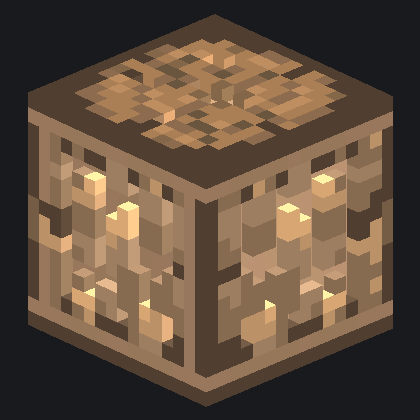
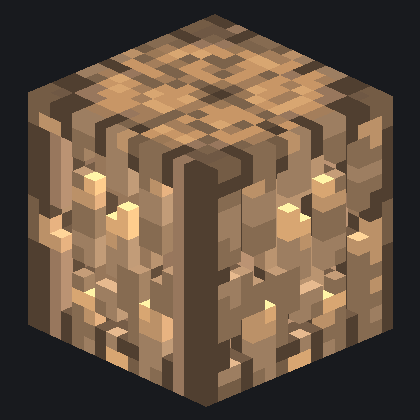
Carved oak bark in its real colours, grooves without the frame
John: keep the sub-voxel bark, "add some texture back. And maybe make the
grooves better". Three causes of the fake look, each fixed:
1. The tracer read a carved model's per-voxel colours only on the
   plant/pane path; the main hit path gave a carved solid one colour per
   cell (the flat tan). Same lookup, same flag, now on the main path too;
   log_oak_baked is flagged.
2. The bake floor kept a fixed 3-texel rim on every face, so the grooves
   lived in a 10x10 window: the framed glyph. The proof only needs the rim
   as wide as the deepest carve (OWN_SHELL_MODELS, opt-in): 1-2 texels.
3. The carved end grain cut the side faces' top rows (refilled dark), and
   its dark ring won the shared edge voxels: dark bands, then dark lines,
   at every seam. Logs carve only their sides (carve_faces) and the sides
   are written last.
Default bake: darkest furrows 2/16, grain 1/16 (CLAUDE_BARK=d2); old and d1
kept for the comparison. claude_oak_model stays 0 until John picks.

diff --git a/util/claude_models.py b/util/claude_models.py
@@ -214,7 +214,8 @@ def _delight(img, carved, delight=1.0, target=None):
 
 
 def bake_from_tiles(name, tiles, maxdepth=3, emissive_faces=(),
-                    emit_level=13, delight=1.0, albedo=None):
+                    emit_level=13, delight=1.0, albedo=None,
+                    grain_depth=1, carve_faces=None):
     """tiles: {face: png path}. Returns (name, palette, voxels) in the
     same shape the authored models use. Palette grows per unique
     (rgb, emit) — texel-true colors, no quantization.
@@ -254,7 +255,14 @@ def bake_from_tiles(name, tiles, maxdepth=3, emissive_faces=(),
             faces.setdefault("front", img)
         else:
             faces[face] = img
-    for face, img in faces.items():
+    # an edge voxel belongs to two faces and holds one colour: the last
+    # face written wins. With carve_faces, the carving faces are written
+    # last (a log's side wins its top and bottom edge from the end grain's
+    # dark ring, which drew a dark line at every seam, 2026-10-09).
+    order = list(faces.items())
+    if carve_faces is not None:
+        order.sort(key=lambda fi: fi[0] in carve_faces)
+    for face, img in order:
         lum = img @ np.array([0.2126, 0.7152, 0.0722])
         lo, hi = lum.min(), max(lum.max(), lum.min() + 1.0)
         med = float(np.median(lum))
@@ -300,6 +308,13 @@ def bake_from_tiles(name, tiles, maxdepth=3, emissive_faces=(),
             fire = ((img[:, :, 0] > 140.0)
                     & (img[:, :, 0] > 1.5 * img[:, :, 2])
                     & (img[:, :, 1] > 40.0))
+        # carve_faces: only these faces carve (None = all). A log's end
+        # grain stays flat (2026-10-09): carved, it cut into the side faces'
+        # top rows, and the bake floor refilled them with the interior fill,
+        # a dark band at every log seam.
+        if carve_faces is not None and face not in carve_faces:
+            deep = np.zeros_like(deep)
+            keep = np.zeros_like(keep)
         carved = (deep | (keep & interior)) & ~fire
         alb = _delight(img, carved, delight=delight, target=albedo)
         alb[fire] = img[fire]   # emissive brightness is real, not paint
@@ -312,8 +327,8 @@ def bake_from_tiles(name, tiles, maxdepth=3, emissive_faces=(),
                     d = maxdepth  # fire sits at the back of its recess
                 elif deep[vv, u]:
                     d = maxdepth
-                elif keep[vv, u] and 0 < vv < N - 1 and 0 < u < N - 1:
-                    d = 1
+                elif keep[vv, u] and interior[vv, u]:
+                    d = grain_depth
                 else:
                     d = 0
                 for dd in range(d):
@@ -506,6 +521,13 @@ def model_planks_spruce():
 
 
 def model_log_oak():
+    # 2026-10-09 (John: keep the sub-voxel bark, "add some texture back. And
+    # maybe make the grooves better"): the voxels keep the texture's own
+    # colours (PALETTE_COLOUR_MODELS) and the rim is only as wide as the
+    # carving (OWN_SHELL_MODELS). CLAUDE_BARK = "old" (1 deep, 3-texel rim,
+    # the shipped carving), "d1" (1 deep, 1-texel rim), "d2" (darkest
+    # furrows 2 deep, 2-texel rim) -- the comparison for John's pick.
+    var = os.environ.get("CLAUDE_BARK", "d2")
     return bake_from_tiles(
         "log_oak_baked",
         dict(side=_mcl("ITEMS", "mcl_core", "textures",
@@ -514,7 +536,8 @@ def model_log_oak():
                       "default_tree_top.png"),
              bottom=_mcl("ITEMS", "mcl_core", "textures",
                          "default_tree_top.png")),
-        maxdepth=1, albedo=ALBEDO_TARGET["log"])
+        maxdepth=2 if var == "d2" else 1, albedo=ALBEDO_TARGET["log"],
+        carve_faces=("left", "right", "back", "front"))
 
 
 def model_cobble():
@@ -652,6 +675,23 @@ def shell_count(n=N, depth=SHELL):
     return (np.minimum(idx, n - 1 - idx) < depth).sum(axis=0)
 
 
+# SHELL = THE MODEL'S OWN DEEPEST CARVE (2026-10-09, bark): the proof above
+# needs every air cell within D of exactly one face, where D is at least the
+# deepest carve -- any such D, not 3 in particular. A model carved 1-2 deep
+# keeps a 1-2 texel rim instead of 3, so its grooves get 14x14 or 12x12 of
+# each face instead of 10x10 (the 3-texel frame is what boxed every log face
+# into a panel). Opt-in per model: changing it changes that block's look.
+OWN_SHELL_MODELS = {"log_oak_baked"}
+
+
+def carve_depth(v):
+    """the deepest air cell's distance into the node, + 1 (0 = uncarved)"""
+    idx = np.indices(np.asarray(v).shape)
+    dist = np.minimum(idx, np.asarray(v).shape[0] - 1 - idx).min(axis=0)
+    air = np.asarray(v) == 0
+    return int(dist[air].max()) + 1 if air.any() else 0
+
+
 def enforce_opaque(name, pal, v):
     """Apply the bake floor: every air cell must sit in EXACTLY ONE
     face's carve shell, which makes the node opaque to any straight ray
@@ -666,13 +706,15 @@ def enforce_opaque(name, pal, v):
     v = np.asarray(v)
     before = through_lines(v)
     mat = base_material_index(pal, v)
-    bad = (v == 0) & (shell_count() != 1)
+    depth = max(1, carve_depth(v)) if (name in OWN_SHELL_MODELS
+                                       and os.environ.get("CLAUDE_BARK") != "old") else SHELL
+    bad = (v == 0) & (shell_count(depth=depth) != 1)
     plugs = [(int(x), int(y), int(z))
              for z, y, x in np.argwhere(bad)]
     v[bad] = mat
     after = through_lines(v)
     return v, dict(before=len(before), after=len(after), plugs=plugs,
-                   material=mat)
+                   material=mat, depth=depth)
 
 
 def extrude_cutout(name, path, thick=2, emit_level=12):
@@ -797,7 +839,10 @@ FLAME_MODELS = {"torch_baked", "lantern_floor", "campfire_lit",
 
 PALETTE_COLOUR_MODELS = {"flower_poppy", "flower_dandelion",
                          "flower_oxeye_daisy", "flower_cornflower",
-                         "flower_allium", "flower_tulip_red"}
+                         "flower_allium", "flower_tulip_red",
+                         # the bark (2026-10-09): its bake is delit, so the
+                         # carved texels are not darkened twice
+                         "log_oak_baked"}
 
 
 def model_torch_baked():
@@ -967,7 +1012,7 @@ def main():
             # budget to argue about, and it is asserted on the RESULT so
             # a future carve that reaches deeper than SHELL trips it.
             leftover = int(((np.asarray(v) == 0)
-                            & (shell_count() != 1)).sum())
+                            & (shell_count(depth=floor["depth"]) != 1)).sum())
             if leftover:
                 raise SystemExit(
                     "BAKE FLOOR FAILED on %s: %d air cell(s) are not in "
